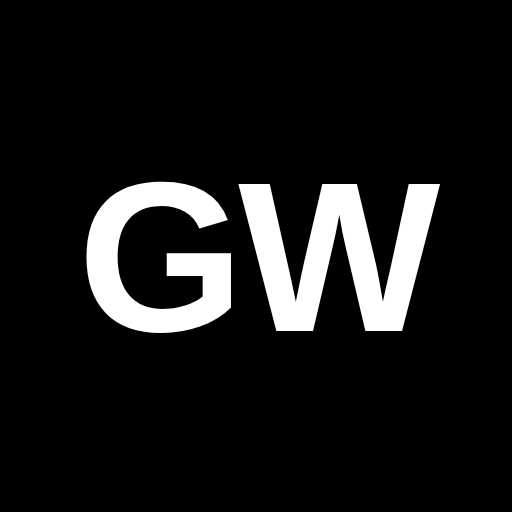
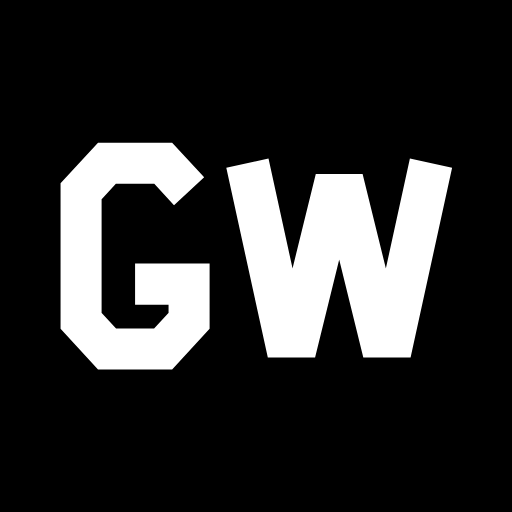
Draw the GW mark as chiselled letterforms
The wordmark was set in Liberation Sans Bold, which had no character. This
replaces it with letterforms drawn as paths: an angular octagonal G with
chamfered corners and a bar cut into the counter, and a W whose diagonals
are blunted at every vertex so the feet read as chisel cuts rather than
spikes. Both letters share the same faceted treatment, so they read as one
alphabet.

Drawn rather than typeset because nothing gothic is installed and neither
Google Fonts nor the npm registry is reachable from the build environment.
Paths also mean the source carries no font dependency.

Placement comes from measuring the rendered ink box rather than eyeballing
it: the mark is centred on 255.5 and scaled to fill the maskable safe zone
with 10px to spare on the tightest edge.

Claude-Session: https://claude.ai/code/session_012hHtaUkkCTpws2ykWhwwEB

Changed region(s): [[0.0938, 0.25, 0.9062, 0.75]]

diff --git a/sw.js b/sw.js
@@ -1,6 +1,6 @@
 // Bump CACHE on every deploy. Navigation requests are network-first, so a stale
 // cache name no longer strands installed users on an old index.html.
-var CACHE = "painting-v5";
+var CACHE = "painting-v6";
 
 // The shell. Faction points files are deliberately absent: they are fetched on
 // demand and cached on first use, so installing does not pull 318 KB the user

diff --git a/js/app.js b/js/app.js
@@ -2,7 +2,7 @@
 
 // Shown on the Data screen. Bump it with any deploy worth telling apart, so a
 // stale install can be spotted without guessing.
-const APP_VERSION = "2026-09-14";
+const APP_VERSION = "2026-09-14b";
 
 import * as S from "./store.js";
 import * as M from "./mfm.js";
